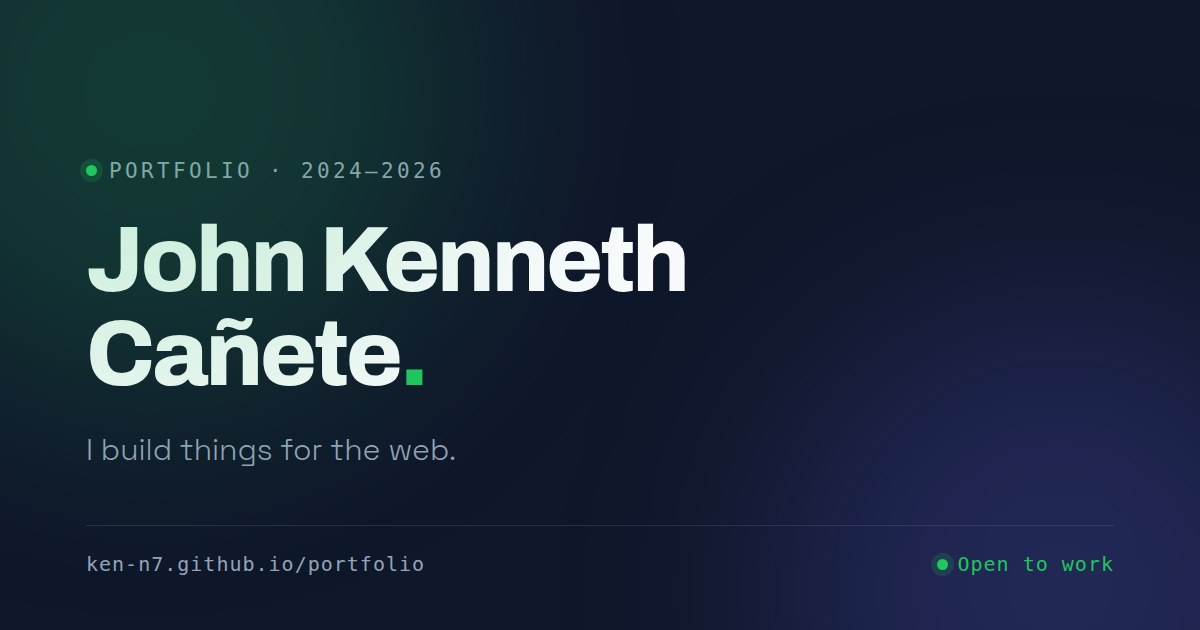
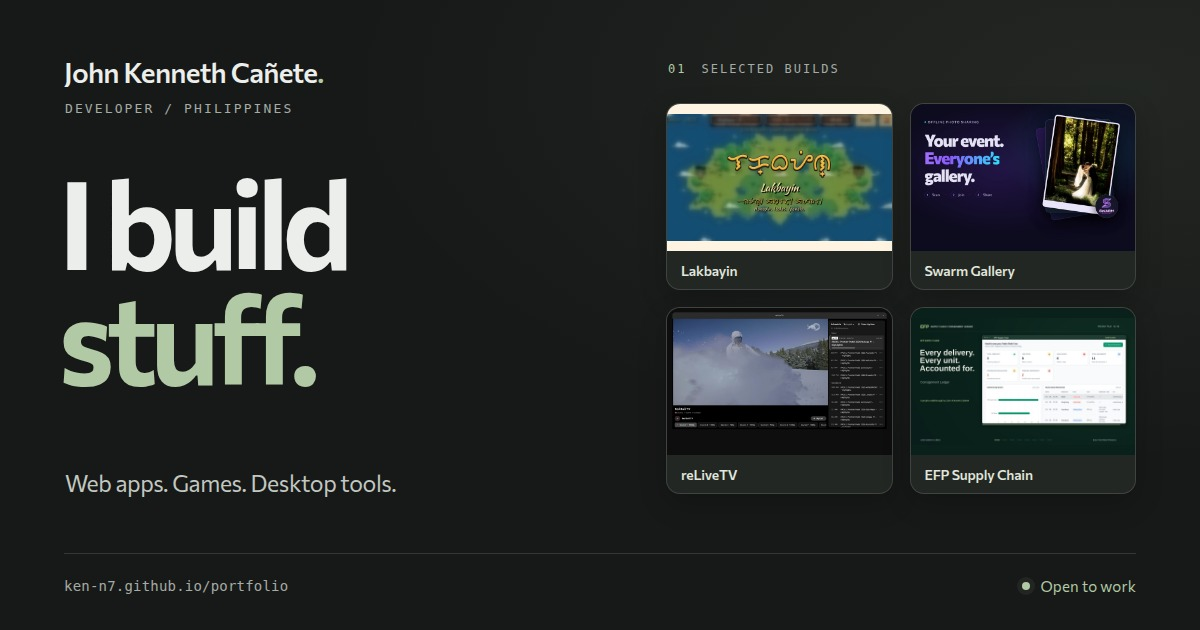
feat: refresh portfolio social preview
Match the current charcoal-and-sage design and project lineup. Version the preview image URL so scrapers can fetch the new artwork.

diff --git a/index.html b/index.html
@@ -6,7 +6,7 @@
   <!-- The hash pins the inline theme script below; editing that script means recomputing it. -->
   <meta http-equiv="Content-Security-Policy" content="default-src 'self'; script-src 'self' 'sha256-AiXExhU5Cgw6vvNUYMq+m/Qa/h+g8mHgDKoLKgKkY3Y='; style-src 'self' 'unsafe-inline'; object-src 'none'; base-uri 'none'; form-action 'none'" />
   <title>John Kenneth Cañete — Developer Portfolio</title>
-  <meta name="description" content="I'm Ken, a developer in the Philippines building web apps, multiplayer games, and useful experiments. Explore my projects and get in touch." />
+  <meta name="description" content="Explore Ken's web apps, multiplayer games, and desktop tools. Built in the Philippines, with project demos and source code." />
   <meta name="author" content="John Kenneth Cañete" />
   <meta name="theme-color" content="#171918" />
 
@@ -19,18 +19,19 @@
   <meta property="og:locale" content="en_US" />
   <meta property="og:url" content="https://ken-n7.github.io/portfolio/" />
   <meta property="og:title" content="John Kenneth Cañete — Developer Portfolio" />
-  <meta property="og:description" content="I'm Ken, a developer in the Philippines building web apps, multiplayer games, and useful experiments." />
-  <meta property="og:image" content="https://ken-n7.github.io/portfolio/previews/share-card.jpg" />
+  <meta property="og:description" content="Explore Ken's web apps, multiplayer games, and desktop tools. Built in the Philippines, with project demos and source code." />
+  <meta property="og:image" content="https://ken-n7.github.io/portfolio/previews/share-card.jpg?v=2" />
+  <meta property="og:image:secure_url" content="https://ken-n7.github.io/portfolio/previews/share-card.jpg?v=2" />
   <meta property="og:image:type" content="image/jpeg" />
   <meta property="og:image:width" content="1200" />
   <meta property="og:image:height" content="630" />
-  <meta property="og:image:alt" content="John Kenneth Cañete — I build stuff. Open to work." />
+  <meta property="og:image:alt" content="John Kenneth Cañete — I build stuff. Web apps, games and desktop tools, featuring Lakbayin, Swarm Gallery, reLiveTV and EFP Supply Chain." />
 
   <meta name="twitter:card" content="summary_large_image" />
   <meta name="twitter:title" content="John Kenneth Cañete — Developer Portfolio" />
-  <meta name="twitter:description" content="I'm Ken, a developer in the Philippines building web apps, multiplayer games, and useful experiments." />
-  <meta name="twitter:image" content="https://ken-n7.github.io/portfolio/previews/share-card.jpg" />
-  <meta name="twitter:image:alt" content="John Kenneth Cañete — I build stuff. Open to work." />
+  <meta name="twitter:description" content="Explore Ken's web apps, multiplayer games, and desktop tools. Built in the Philippines, with project demos and source code." />
+  <meta name="twitter:image" content="https://ken-n7.github.io/portfolio/previews/share-card.jpg?v=2" />
+  <meta name="twitter:image:alt" content="John Kenneth Cañete — I build stuff. Web apps, games and desktop tools, featuring Lakbayin, Swarm Gallery, reLiveTV and EFP Supply Chain." />
 
   <script type="application/ld+json">
   {
@@ -39,7 +40,7 @@
     "name": "John Kenneth Cañete",
     "alternateName": "Ken",
     "url": "https://ken-n7.github.io/portfolio/",
-    "jobTitle": "Web Developer",
+    "jobTitle": "Software Developer",
     "email": "mailto:canetejohnkenneth04@gmail.com",
     "address": { "@type": "PostalAddress", "addressCountry": "PH" },
     "sameAs": ["https://github.com/Ken-n7", "https://www.linkedin.com/in/john-kenneth-ca%C3%B1ete-b48766406/"],
